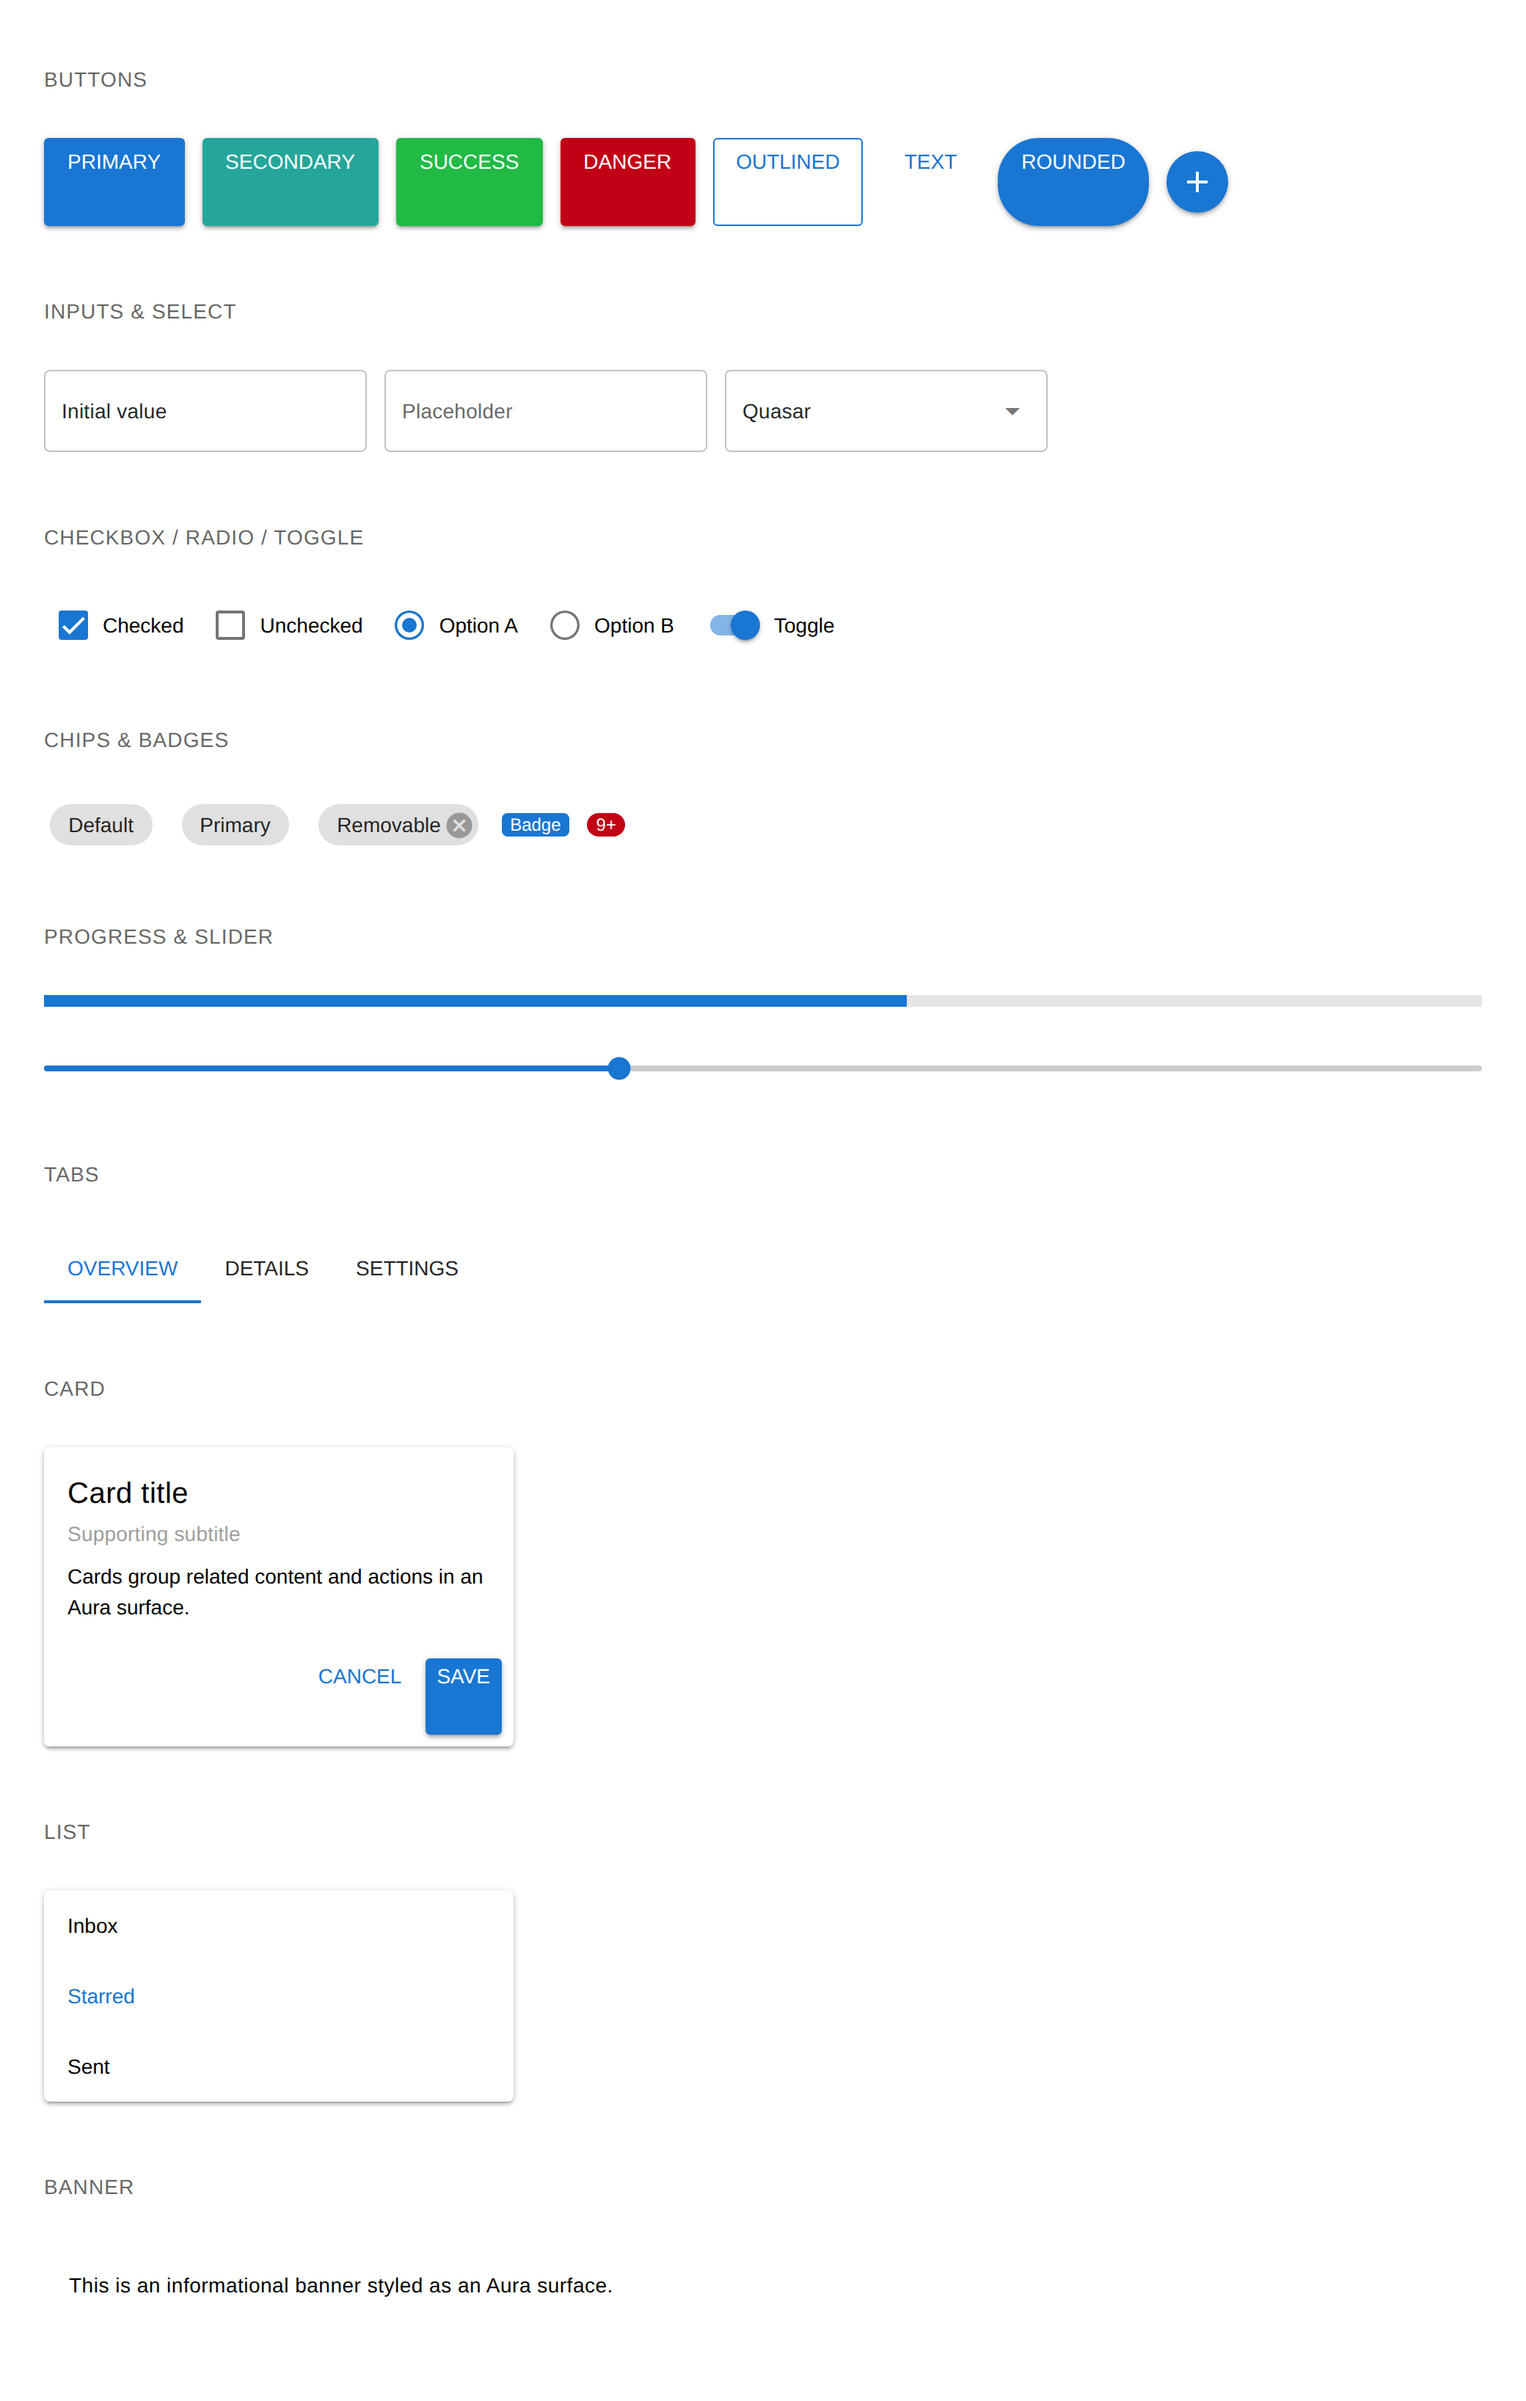
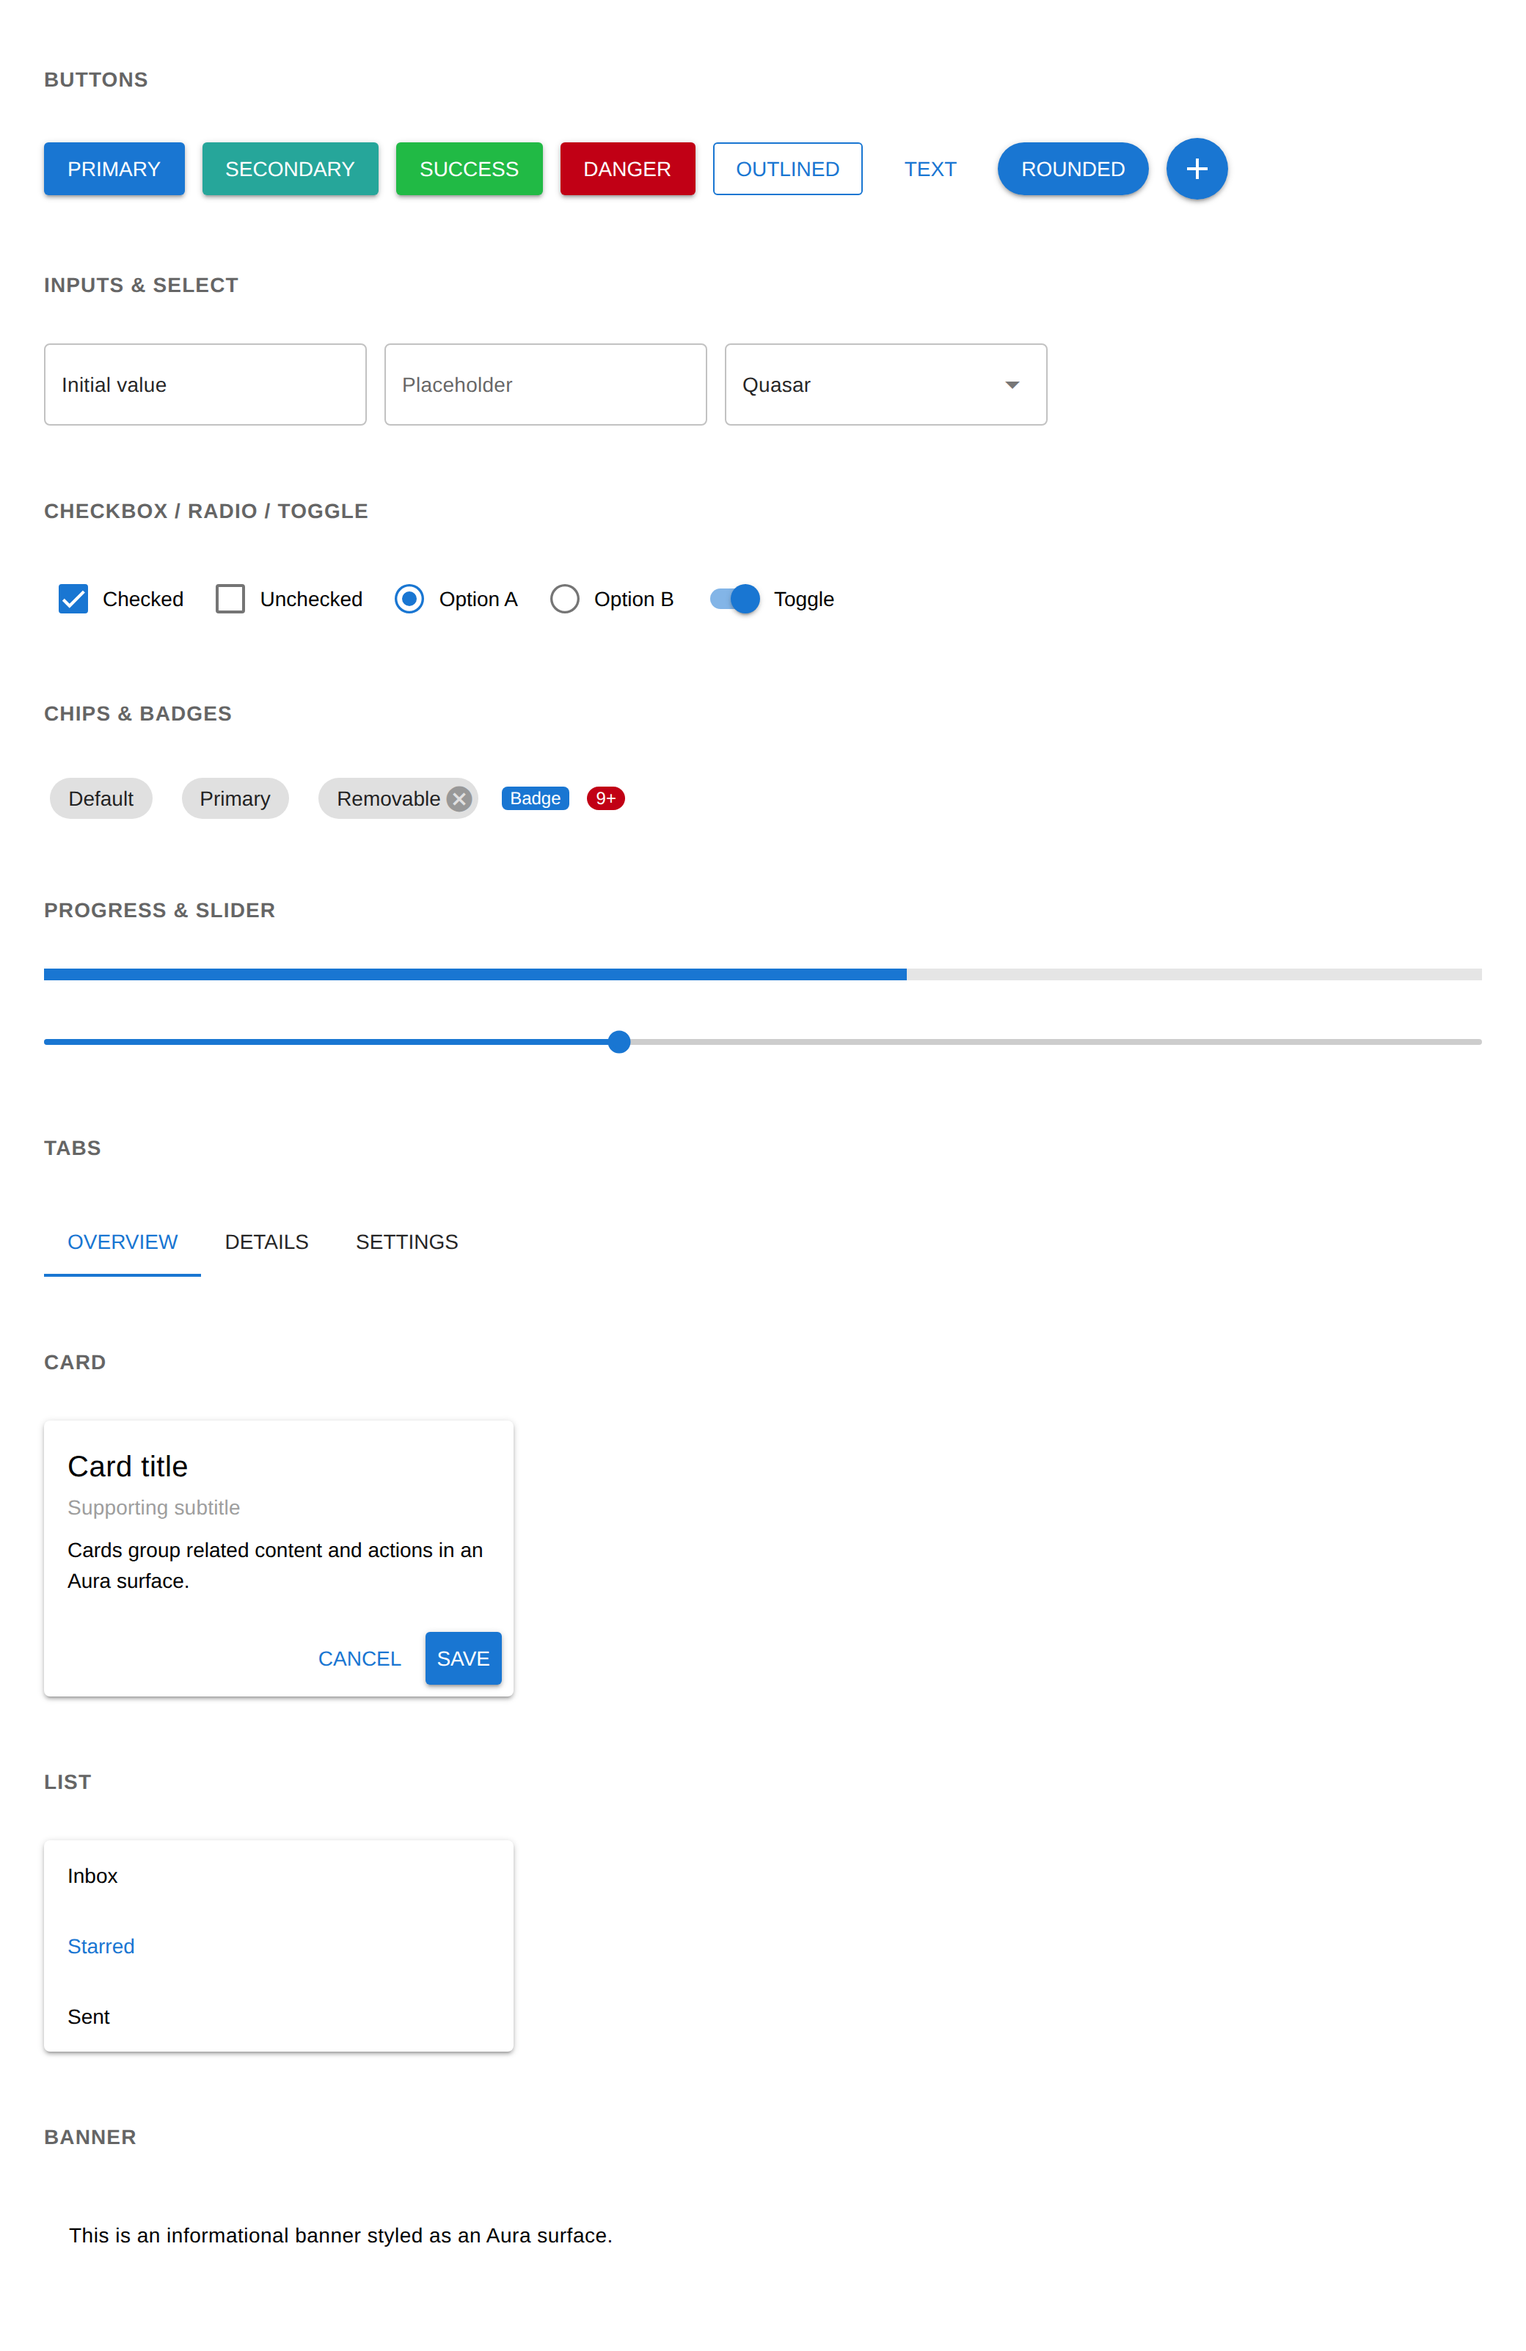
Fix Quasar Aura density/spacing to match PrimeVue reference

diff --git a/playground/index.html b/playground/index.html
@@ -13,8 +13,8 @@
       body { padding: 24px; padding-top: 64px; }
       .gallery { max-width: 980px; margin: 0 auto; }
       .row-wrap { display: flex; flex-wrap: wrap; gap: 12px; align-items: center; }
-      .block { margin-bottom: 28px; }
-      h2.section { font-size: 14px; text-transform: uppercase; letter-spacing: .04em; opacity: .6; margin: 0 0 10px; }
+      .demo-block { margin-bottom: 28px; }
+      h2.section { font-size: 14px; font-weight: 700; text-transform: uppercase; letter-spacing: .04em; opacity: .6; margin: 0 0 10px; }
       #dev-nav {
         position: fixed; top: 0; left: 0; right: 0; z-index: 9999;
         display: flex; align-items: center; gap: 8px; padding: 8px 16px;
@@ -97,7 +97,7 @@
         },
         template: `
           <div class="gallery">
-            <div class="block" data-shot="buttons">
+            <div class="demo-block" data-shot="buttons">
               <h2 class="section">Buttons</h2>
               <div class="row-wrap">
                 <q-btn color="primary" label="Primary" />
@@ -111,7 +111,7 @@
               </div>
             </div>
 
-            <div class="block" data-shot="fields">
+            <div class="demo-block" data-shot="fields">
               <h2 class="section">Inputs &amp; Select</h2>
               <div class="row-wrap">
                 <q-input outlined v-model="text" style="width:220px" />
@@ -120,7 +120,7 @@
               </div>
             </div>
 
-            <div class="block" data-shot="selection">
+            <div class="demo-block" data-shot="selection">
               <h2 class="section">Checkbox / Radio / Toggle</h2>
               <div class="row-wrap">
                 <q-checkbox v-model="check" label="Checked" />
@@ -131,7 +131,7 @@
               </div>
             </div>
 
-            <div class="block" data-shot="chips">
+            <div class="demo-block" data-shot="chips">
               <h2 class="section">Chips &amp; Badges</h2>
               <div class="row-wrap">
                 <q-chip>Default</q-chip>
@@ -142,7 +142,7 @@
               </div>
             </div>
 
-            <div class="block" data-shot="progress">
+            <div class="demo-block" data-shot="progress">
               <h2 class="section">Progress &amp; Slider</h2>
               <div class="row-wrap" style="flex-direction:column; align-items:stretch">
                 <q-linear-progress :value="progress" color="primary" style="height:8px" class="q-mb-md" />
@@ -150,7 +150,7 @@
               </div>
             </div>
 
-            <div class="block" data-shot="tabs">
+            <div class="demo-block" data-shot="tabs">
               <h2 class="section">Tabs</h2>
               <q-tabs v-model="tab" align="left" active-color="primary" indicator-color="primary">
                 <q-tab name="one" label="Overview" />
@@ -159,7 +159,7 @@
               </q-tabs>
             </div>
 
-            <div class="block" data-shot="card">
+            <div class="demo-block" data-shot="card">
               <h2 class="section">Card</h2>
               <q-card style="max-width:320px">
                 <q-card-section>
@@ -176,7 +176,7 @@
               </q-card>
             </div>
 
-            <div class="block" data-shot="list">
+            <div class="demo-block" data-shot="list">
               <h2 class="section">List</h2>
               <q-card style="max-width:320px">
                 <q-list>
@@ -193,7 +193,7 @@
               </q-card>
             </div>
 
-            <div class="block" data-shot="banner">
+            <div class="demo-block" data-shot="banner">
               <h2 class="section">Banner</h2>
               <q-banner>
                 This is an informational banner styled as an Aura surface.

diff --git a/playground/primevue.html b/playground/primevue.html
@@ -18,8 +18,8 @@
       }
       .gallery { max-width: 980px; margin: 0 auto; }
       .row-wrap { display: flex; flex-wrap: wrap; gap: 12px; align-items: center; }
-      .block { margin-bottom: 28px; }
-      h2.section { font-size: 14px; text-transform: uppercase; letter-spacing: .04em; opacity: .6; margin: 0 0 10px; }
+      .demo-block { margin-bottom: 28px; }
+      h2.section { font-size: 14px; font-weight: 700; text-transform: uppercase; letter-spacing: .04em; opacity: .6; margin: 0 0 10px; }
       .label { display: inline-flex; align-items: center; gap: 6px; }
       #dev-nav {
         position: fixed; top: 0; left: 0; right: 0; z-index: 9999;
@@ -69,7 +69,7 @@
         },
         template: `
           <div class="gallery">
-            <div class="block">
+            <div class="demo-block">
               <h2 class="section">Buttons</h2>
               <div class="row-wrap">
                 <p-button label="Primary" />
@@ -83,7 +83,7 @@
               </div>
             </div>
 
-            <div class="block">
+            <div class="demo-block">
               <h2 class="section">Inputs &amp; Select</h2>
               <div class="row-wrap">
                 <p-inputtext v-model="text" style="width:220px" />
@@ -92,7 +92,7 @@
               </div>
             </div>
 
-            <div class="block">
+            <div class="demo-block">
               <h2 class="section">Checkbox / Radio / Toggle</h2>
               <div class="row-wrap">
                 <span class="label"><p-checkbox v-model="check" binary input-id="c1" /><label for="c1">Checked</label></span>
@@ -103,7 +103,7 @@
               </div>
             </div>
 
-            <div class="block">
+            <div class="demo-block">
               <h2 class="section">Chips &amp; Badges</h2>
               <div class="row-wrap">
                 <p-chip label="Default" />
@@ -114,7 +114,7 @@
               </div>
             </div>
 
-            <div class="block">
+            <div class="demo-block">
               <h2 class="section">Progress &amp; Slider</h2>
               <div class="row-wrap" style="flex-direction:column; align-items:stretch">
                 <p-progressbar :value="60" style="height:8px" :show-value="false" />
@@ -123,7 +123,7 @@
               </div>
             </div>
 
-            <div class="block">
+            <div class="demo-block">
               <h2 class="section">Tabs</h2>
               <p-tabs value="0">
                 <p-tablist>
@@ -134,7 +134,7 @@
               </p-tabs>
             </div>
 
-            <div class="block">
+            <div class="demo-block">
               <h2 class="section">Card</h2>
               <p-card style="width:320px">
                 <template #title>Card title</template>
@@ -151,12 +151,12 @@
               </p-card>
             </div>
 
-            <div class="block">
+            <div class="demo-block">
               <h2 class="section">List</h2>
               <p-listbox v-model="listSel" :options="listItems" option-label="label" option-value="value" style="width:320px" />
             </div>
 
-            <div class="block">
+            <div class="demo-block">
               <h2 class="section">Banner</h2>
               <p-message severity="info">This is an informational banner styled as an Aura surface.</p-message>
             </div>

diff --git a/src/css/components/_field.scss b/src/css/components/_field.scss
@@ -54,19 +54,25 @@
   color: var(--p-form-field-icon-color);
 }
 
-// Compact Aura sizing (~2.5rem control height). Applied only to fields without
-// a (floating) label so Quasar's label-float behaviour keeps working; PrimeVue
-// itself favours external labels, which map to Quasar's label-less fields.
+// Match Aura's 1rem field text (Quasar fields default to 14px).
+.q-field {
+  font-size: 1rem;
+}
+
+// Compact Aura sizing (~2.25rem control height to match Aura buttons/inputs).
+// Applied only to fields without a (floating) label so Quasar's label-float
+// behaviour keeps working; PrimeVue itself favours external labels, which map
+// to Quasar's label-less fields.
 .q-field--outlined:not(.q-textarea):not(.q-field--labeled) .q-field__control {
-  min-height: 2.5rem;
-  height: 2.5rem;
+  min-height: 2.25rem;
+  height: 2.25rem;
   padding: 0 var(--p-inputtext-padding-x);
 }
 
 .q-field--outlined:not(.q-textarea):not(.q-field--labeled)
   .q-field__control
   .q-field__native {
-  min-height: 2.5rem;
+  min-height: 2.25rem;
   padding: var(--p-inputtext-padding-y) 0;
 }
 

diff --git a/src/css/components/_list.scss b/src/css/components/_list.scss
@@ -2,6 +2,10 @@
 .q-item {
   color: var(--p-list-option-color, var(--p-text-color));
   border-radius: var(--p-list-option-border-radius);
+  // Aura list options are compact; Quasar items default to a 48px min-height
+  // with 8px/16px padding, which reads far less dense than the reference.
+  min-height: 0;
+  padding: var(--p-list-option-padding);
   transition:
     background-color var(--p-list-transition-duration, 0.2s),
     color var(--p-list-transition-duration, 0.2s);

diff --git a/src/css/_base.scss b/src/css/_base.scss
@@ -28,6 +28,10 @@ $pv-font-family:
 
 body {
   font-family: $pv-font-family;
+  // Aura renders at the 1rem (16px) base; Quasar defaults to 14px, which makes
+  // the same gallery look smaller/less dense than the PrimeVue reference.
+  font-size: 1rem;
+  line-height: 1.5;
   color: var(--p-text-color);
   background-color: var(--p-surface-50);
 }

diff --git a/src/css/components/_button.scss b/src/css/components/_button.scss
@@ -2,6 +2,9 @@
 .q-btn {
   font-weight: var(--p-button-label-font-weight);
   font-size: 1rem;
+  // Quasar's 1.715em line-height leaves a lot of dead vertical space; Aura's
+  // buttons hug the label, so use a tight line-height for compact heights.
+  line-height: 1.25;
   text-transform: none;
   letter-spacing: normal;
   transition:

diff --git a/src/css/components/_chip.scss b/src/css/components/_chip.scss
@@ -4,7 +4,7 @@
   color: var(--p-chip-color);
   border-radius: var(--p-chip-border-radius);
   padding: var(--p-chip-padding-y) var(--p-chip-padding-x);
-  font-size: 0.875rem;
+  font-size: 1rem;
 }
 
 .q-chip__icon {

diff --git a/tools/README.md b/tools/README.md
@@ -52,6 +52,13 @@ loads each page in headless Chromium at a 2× device scale, waits for fonts to
 settle, and writes a full-page PNG. Re-run steps 3–4 after changing the theme or
 the playground markup.
 
+> **Gotcha — don't reuse Quasar utility class names in the playground.** Quasar
+> ships global utility classes such as `.block` (`display:block`). The gallery
+> markup therefore uses namespaced class names (e.g. `.demo-block`) for its own
+> layout; using a bare `.block` rule would leak into Quasar's internals (it sits
+> on every `q-btn` label) and silently inflate component sizing, making the
+> Quasar shots look taller / less dense than they really are.
+
 ### Previewing the playground by hand
 
 ```bash
